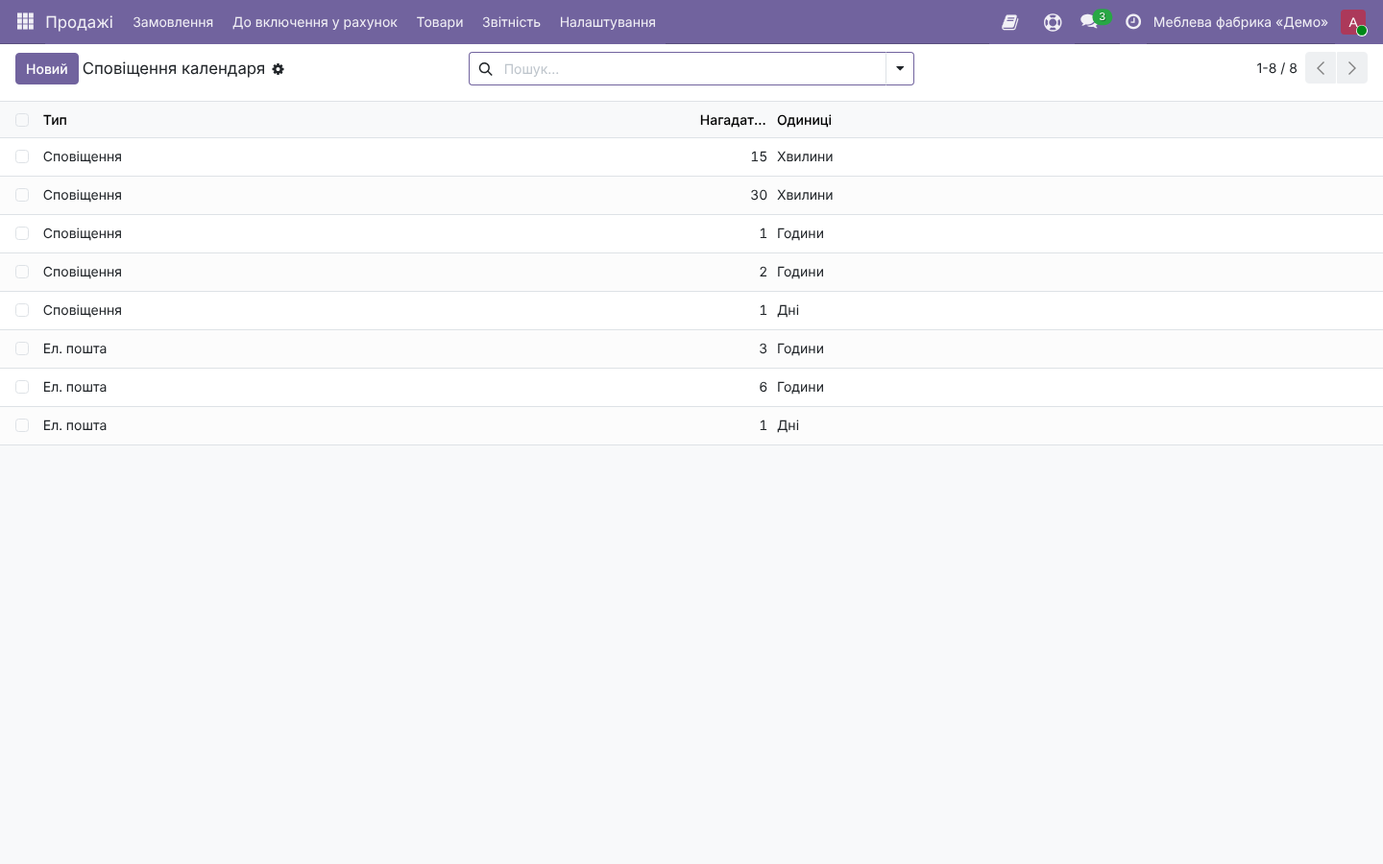
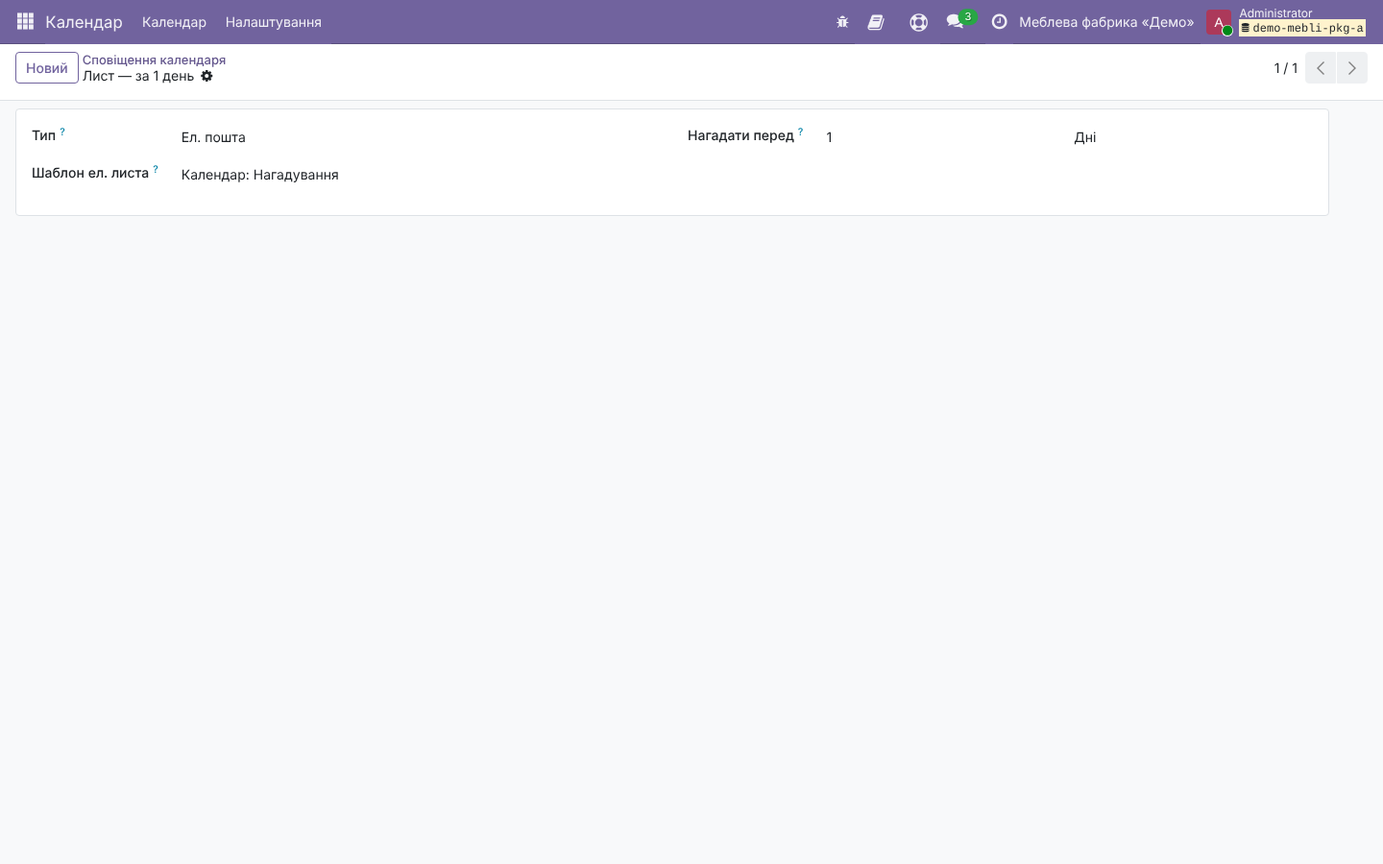
A-16b-4: аудит коло 1 — режим договору, AI-мапінг і підтримка в setup.md, ємність дільниці, крок якості (перезнято SET-31), SET-16, новий SET-37, D-22 (код BAS працівника без підпису)
Claude-Session: https://claude.ai/code/session_01L4X5dzMK8q8wsLqUxAXMtS

diff --git a/package/docs/user-guide/setup.md b/package/docs/user-guide/setup.md
@@ -24,6 +24,8 @@
 8. Адміністратор: терміни оплати з етапами, працівники (PIN, код BAS), причини премій і штрафів, канал BAS.
 9. Технолог: шаблони імпорту деталей (з першого файлу програми проєктування).
 
+Прайс-листи покупців (`product.pricelist`) пакет не розширює — стандарт Odoo, шаблон `15_product.pricelist.csv`; терміни оплати CSV-шаблону не мають (вводять вручну).
+
 Масове заповнення: CSV-шаблони `package/master-data/*.csv` і `package/master-data/td/*.csv` (поля пакета — другим проходом тих самих записів). Імпорт — «Продажі» → «Налаштування» → «Міграція» → «Порядок імпорту шаблонів» → «Імпортувати» в рядку кроку (див. розділ «Міграція: порядок імпорту шаблонів і звірка»). Для кожного довідника нижче названо його шаблон.
 
 ## Налаштування «Меблі» і параметри компанії
@@ -34,7 +36,10 @@
 3. Блок «Монтаж»: «% бригаді» (типовий відсоток від суми замовлення для нового акта), «Поділ % бригаді» («Порівну» / «За часом»), «База % бригаді» («За фінальним актом» / «За етапами»), «Монтаж у вартості замовлення», «Чек-лист акта» — пункти акта монтажу, по одному в рядку.
 4. Блок «Контроль»: «Застряглі замовлення» (1–30 днів), «Ціна вище історії» (1–50 %), «Прострочка рекламації» (1–60 днів), «Мінімальний обрізок» (100–1000 мм), «Розкрій плит», «Профіль коробки» (лише інформаційно), «Собівартість: відрядна замість годин».
 5. Блок «Функції коробки B»: прапорці функцій (конфігуратор, обрізки, пакети розкрою, кіоск цеху, контроль якості, сканування етикеток, підпис зміни замовлення, курс НБУ, AI-підказка колонок, аналоги, табло цеху).
-6. Натисніть «Зберегти».
+6. Під «AI-підказка колонок» (коли увімкнено) — «Постачальник моделі AI-мапінгу»: адреса сервісу; порожньо, доки постачальника не обрано (підказка вимкнена).
+7. Окремо, «Налаштування» → «Продажі», блок «Документи меблевого виробництва»: «Друкований договір» — «Режим договору» = «Договір підряду» або «Купівля-продаж» (текст договору, який менеджер друкує із замовлення).
+8. Окремо, блок «Підтримка ToDo»: «Адреса підтримки», «Надсилати на вебхук», «Адреса вебхука», «Секрет вебхука» — `admin.md` § Звернення в підтримку (td_support).
+9. Натисніть «Зберегти».
 
 ![Налаштування «Меблі»: договір, оплата, монтаж](img/setup/SET-01.png)
 ![Налаштування «Меблі»: контроль і функції коробки B](img/setup/SET-02.png)
@@ -44,12 +49,14 @@
 - «Контроль доплати перед виїздом» = «Блокувати» — бригаду не можна відправити на монтаж з несплаченою доплатою (менеджер і бригадир бачать «Бракує до монтажу» на завданні монтажу).
 - «Ціна вище історії» — поріг червоної позначки «Історія» в рядках закупівлі (комірник, `komirnyk.md` SC-04); «Мінімальний обрізок» — менші залишки плити не стають діловими обрізками.
 - «Монтаж у вартості замовлення» — рядок послуги монтажу в замовленні має нульову ціну (розділ «Послуга монтажу»).
+- «Режим договору» не задано -> менеджер не надрукує договір: «Задайте режим договору в налаштуваннях компанії (Продажі → Налаштування)» (`menedzher.md` SC-01, AC-034).
+- «Адреса підтримки» порожня -> кнопка «Підтримка ToDo» у верхній панелі не має куди надсилати звернення.
 - Значення параметрів і їхні VP-NN — `admin.md` § Параметри і § Довідник налаштувань модулів; службове поле користувача `td_margin_auto` («Бачить маржу» за параметром компанії) ставиться автоматично з «Менеджер бачить маржу».
 
 Типова помилка: значення поза діапазоном -> «%(field)s: значення %(value)s поза допустимим діапазоном %(low)s–%(high)s.» — виправте число в межах з підказки під полем.
 
 ## Категорії товарів
-Хто: адміністратор. Де: «Продажі» → «Налаштування» → «Товари» → «Категорії» (також «Склад»/«Купівля» → «Налаштування» → «Товари» → «Категорії»). Модель — `product.category`.
+Хто: адміністратор. Де: «Продажі» → «Налаштування» → «Товари» → «Категорії» (також «Склад»/«Купівля» → «Налаштування» → «Товари» → «Категорії» або «Виставлення рахунків» → «Налаштування» → «Категорії товару» — так знято кадр). Модель — `product.category`.
 
 1. «Новий» або відкрийте категорію.
 2. Заповніть «Категорія» (назва) і «Батьківська категорія».
@@ -102,7 +109,7 @@
 ![Атрибут «Ширина, мм»: розмір виробу](img/setup/SET-29.png)
 
 Обов'язкові поля й наслідки: з «Роль компонента» і «Товар-компонент» специфікація під замовлення знає, з якої плити кроїти корпус і фасад і яку фурнітуру класти; з «Товщина кромки, мм» — яку кромку підібрати до плити. Без «Декор корпусу» менеджер отримає «Оберіть декор корпусу для %s.» (`menedzher.md` SC-01); без кромки потрібної товщини — «Не знайдено кромки %(thickness)s мм для %(board)s.» (технолог, `tekhnolog.md` SC-02). «Розмір виробу» — звідки беруться ширина/висота/глибина рядка замовлення (ціна й деталі).
-Типова помилка: «Створення варіанту» = «Миттєво» — на кожну комбінацію створюються варіанти товару; для конфігуратора ставте «Ніколи».
+Типова помилка: «Створення варіанту» = «Миттєво» — на кожну комбінацію створюються варіанти товару; для конфігуратора ставте «Ніколи». Щойно атрибут ужито в товарах, Odoo блокує «Створення варіанту» (на кадрі поле неактивне) — щоб змінити, заведіть новий атрибут.
 Масово: `03_product.attribute.csv`, `04_product.attribute.value.csv`; поля пакета — `td/03b_product.attribute.csv`, `td/04b_product.attribute.value.csv`.
 
 ## Доплати й несумісні значення (конфігуратор)
@@ -129,7 +136,7 @@
 3. Плита: «Довжина листа, мм», «Ширина листа, мм», «Товщина, мм», «Плановий відхід, %» (0–99, за замовчуванням 15).
 4. Кромка: «Товщина, мм», «Підходить до плити» (декор плити, до якого ця кромка), «Товщина кромки, мм» (0,4 / 2 тощо).
 5. Фурнітура й готовий фасад: досить «Вид матеріалу».
-6. Код для BAS — у формі варіанта товару («Виробництво» → «Товари» → «Варіанти товару», поле «Код BAS» після «Референс»; для обміну з BAS).
+6. Код для BAS вводить адміністратор у формі варіанта товару («Виробництво» → «Товари» → «Варіанти товару»; меню є, коли в налаштуваннях Складу/Продажів увімкнено варіанти — на стенді увімкнено), поле «Код BAS» після «Референс»; потрібне для обміну з BAS.
 7. «Зберегти».
 
 ![Плита: розміри листа, товщина, відхід](img/setup/SET-20.png)
@@ -201,11 +208,12 @@
 
 1. «Новий»: «Назва робочого центру», «Код» (напр. `CUT`, `EDG`, `DRL`, `ASM`), «Робочі години» (робочий графік дільниці).
 2. Вкладка «Загальна інформація»: «Ефективність часу», «Вартість на годину».
-3. «Зберегти».
+3. Вкладка «Завантаженість виробництва»: рядок без товару з ємністю — скільки виробів дільниця робить одночасно; рядка немає — множник 1.
+4. «Зберегти».
 
 ![Робочий центр: доступні години і відкриті заявки](img/setup/SET-32.png)
 
-Поля пакета (лише для читання): «Доступно годин на тиждень» = години графіка × кількість одночасних виробів; «Відкриті заявки» (смарт-кнопка «Обслуговування») — відкриті запити на обслуговування дільниці; «Верстати» — обладнання дільниці. Наслідки: від «Доступно годин на тиждень» — «Завантаження, %» і зона перевантаження в «Завантаження дільниць» начальника виробництва (`nachalnyk-vyrobnytstva.md` SC-03).
+Поля пакета (лише для читання): «Доступно годин на тиждень» = години графіка × кількість одночасних виробів; «Відкриті заявки» (смарт-кнопка «Обслуговування») — відкриті запити на обслуговування дільниці; службове «Верстати» (кількість обладнання дільниці) на формі не показується. Наслідки: від «Доступно годин на тиждень» — «Завантаження, %» і зона перевантаження в «Завантаження дільниць» начальника виробництва (`nachalnyk-vyrobnytstva.md` SC-03).
 Типова помилка: робочий графік не задано — доступних годин 0, завантаження не рахується.
 Масово: `09_mrp.workcenter.csv`.
 
@@ -216,14 +224,14 @@
 2. Вкладка «Операції» → «Додати рядок» (форма «Використання робочого центру»): «Операція», «Робочий центр».
 3. «База часу»: «Фіксовано» / «На деталь» / «На метр кромки» / «На м² плити»; «Хвилин на одиницю бази» — хвилин на одну деталь, метр кромки, м² плити (для «Фіксовано» — стандартна «Тривалість за замовчуванням»).
 4. «Розцінка за одиницю бази» — грн відрядної оплати за одиницю бази (для «Фіксовано» — за операцію).
-5. «Крок якості» (функція «Контроль якості») — що перевіряє працівник після операції.
+5. «Крок якості» — що працівник перевіряє й фотографує перед «Готово» (напр. «Кромка без сколів, фото торця»); поле видно лише з увімкненою функцією «Контроль якості» («Налаштування» → «Меблі»).
 6. «Зберегти». Для непараметричних виробів деталі імпортують з файлу програми проєктування («Імпорт деталей» на специфікації, `tekhnolog.md` SC-02).
 
 ![Специфікація-шаблон і операції з базою часу та розцінкою](img/setup/SET-35.png)
 ![Операції шаблону: база часу, хвилини, розцінка](img/setup/SET-30.png)
 ![Використання робочого центру: база часу, розцінка, крок якості](img/setup/SET-31.png)
 
-Обов'язкові поля й наслідки: «База часу» обов'язкова (за замовчуванням «Фіксовано»). У специфікації під замовлення тривалість операції = «Хвилин на одиницю бази» × кількість бази (деталей, метрів кромки, м² плити) — це планові години й завантаження дільниць начальника виробництва. «Розцінка за одиницю бази» × база × виготовлено = відрядне нарахування працівнику (фінансист, «Премії й штрафи»). «Крок якості» показується на планшеті цеху після операції (`nachalnyk-vyrobnytstva.md` SC-03). Службові поля специфікації («Специфікація під замовлення», «Шаблонна специфікація», «Рядок замовлення», «Замовлення на продаж», «Версія розкрою», «Ширина/Висота/Глибина, мм», «Деталі», «Кількість деталей», «Площа плит, м²», «Кромка, м», у рядках — «З деталей») заповнює система для специфікацій під замовлення; вручну їх не правлять.
+Обов'язкові поля й наслідки: «База часу» обов'язкова (за замовчуванням «Фіксовано»). У специфікації під замовлення тривалість операції = «Хвилин на одиницю бази» × кількість бази (деталей, метрів кромки, м² плити) — це планові години й завантаження дільниць начальника виробництва. «Розцінка за одиницю бази» × база × виготовлено = відрядне нарахування працівнику (фінансист, «Премії й штрафи»). «Крок якості» показується на планшеті цеху перед завершенням операції (`nachalnyk-vyrobnytstva.md` SC-03). Службові поля специфікації («Специфікація під замовлення», «Шаблонна специфікація», «Рядок замовлення», «Замовлення на продаж», «Версія розкрою», «Ширина/Висота/Глибина, мм», «Деталі», «Кількість деталей», «Площа плит, м²», «Кромка, м», у рядках — «З деталей») заповнює система для специфікацій під замовлення; вручну їх не правлять.
 Типова помилка: «Розцінка за одиницю бази» = 0 — відрядна за операцію не нараховується.
 Масово: `10_mrp.bom.csv`, `11_mrp.bom.line.csv`, `12_mrp.routing.workcenter.csv`, поля пакета — `td/12b_mrp.routing.workcenter.csv`.
 
@@ -262,13 +270,14 @@
 ![Термін оплати з етапами](img/setup/SET-09.png)
 
 Наслідки: рядки «Передоплата» і «Перед монтажем» мають бути сплачені до виїзду бригади; «Після акта» — після підписаного акта. Менеджер бачить «Графік оплат» і «Оплата етапами» в замовленні, бригадир і менеджер — «Бракує до монтажу» на виїзді; друкований договір показує графік. Умова без етапів — уся сума до монтажу.
+Масово: CSV-шаблону немає — терміни з етапами вводять вручну (умова «Меблі на замовлення» постачається з `td_mebli_sale`).
 Типова помилка: етап не задано в жодному рядку — контроль доплати вважає всю суму обов'язковою до монтажу.
 
 ## Працівники: код BAS і PIN цеху
 Хто: адміністратор (кадровик). Де: «Співробітники» → «Співробітники». Модель — `hr.employee`.
 
 1. Відкрийте або створіть працівника: ім'я, «Відділ», «Посада».
-2. Вкладка «Налаштування», блок «Відвідування/точка продажу»: «PIN-код» (для планшета цеху) і «Номер `RFID`/бейджа»; поруч — «Код BAS» (табельний код працівника в BAS; видно кадровику).
+2. Вкладка «Налаштування», блок «Відвідування/точка продажу»: «PIN-код» (для планшета цеху) і «Номер `RFID`/бейджа»; «Код BAS» (табельний код працівника в BAS; видно кадровику) — друге поле в рядку «Номер `RFID`/бейджа», без власного підпису (на кадрі «0001  П-0003»: 0001 — бейдж, П-0003 — код BAS; дефект підпису D-22 у `package/demo/defects.md`).
 3. Блок «Налаштування модуля»: «Вартість години».
 4. «Зберегти».
 
@@ -279,7 +288,7 @@
 Масово: `13_hr.employee.csv`, коди BAS — `td/21b_hr.employee.csv`.
 
 ## Причини премій і штрафів
-Хто: адміністратор (начальник виробництва). Де: «Виробництво» → «Налаштування» → «Причини премій і штрафів». Модель — довідник `td.mebli.accrual.reason`.
+Хто: адміністратор; меню відкрите також менеджеру виробництва (начальник виробництва) і бухгалтерії (фінансист). Де: «Виробництво» → «Налаштування» → «Причини премій і штрафів». Модель — довідник `td.mebli.accrual.reason`.
 
 1. «Новий»: «Причина», «Вид» («Премія» / «Штраф»), «Типова сума».
 2. «Зберегти». Непотрібну причину архівуйте (не видаляйте — на неї посилаються нарахування).
@@ -292,7 +301,7 @@
 ## Причини втрат дільниць
 Хто: адміністратор. Модель — стандартна `mrp.workcenter.productivity.loss`.
 
-Пакет використовує стандартні причини втрат Odoo: кіоск цеху пропонує при «Пауза» причини з типом «Доступність», «Якість», «Продуктивність» («Доступність матеріалу», «Несправність обладнання», «Налаштування» тощо); заявка на ремонт верстата фіксує простій стандартною причиною «Несправність обладнання». В Odoo 19 CE окремого пункту меню для цього довідника немає (перевірено на стенді); список стандартний, власні причини в CE через інтерфейс не додаються — відкрите питання (`tests/open-questions.md`). Кадр вибору причини паузи — `nachalnyk-vyrobnytstva.md` SC-03.
+Пакет використовує стандартні причини втрат Odoo: кіоск цеху пропонує при «Пауза» причини з типом «Доступність», «Якість», «Продуктивність» («Доступність матеріалу», «Несправність обладнання», «Налаштування» тощо); заявка на ремонт верстата фіксує простій стандартною причиною «Несправність обладнання». В Odoo 19 CE окремого пункту меню для цього довідника немає (перевірено на стенді: меню адміністратора й технолога; у вихідних `addons/*/views/*.xml` Odoo 19 CE немає дії вікна для `mrp.workcenter.productivity.loss`); список стандартний, власні причини в CE через інтерфейс не додаються — відкрите питання (`tests/open-questions.md`). Кадр вибору причини паузи — `nachalnyk-vyrobnytstva.md` SC-03.
 Типова помилка: «Пауза» без причини -> «Оберіть причину паузи.».
 
 ## Заміри: графік і нагадування
@@ -300,7 +309,7 @@
 
 1. Користувачу замірника дайте групу «Замірник» («Налаштування» → «Користувачі», `admin.md` § Користувачі й ролі).
 2. Робочий графік замірника — «Співробітники» → «Налаштування» → «Робочий графік» (вільні вікна запису = години графіка мінус його зустрічі; без графіка працівника — графік компанії).
-3. Нагадування покупцю за день — стандартне сповіщення календаря «Лист — за 1 день», яке створює модуль `td_mebli_measure`; список — «Налаштування» → «Технічні налаштування» → «Календар» → «Сповіщення календаря» (режим розробника). Не видаляйте його.
+3. Нагадування покупцю за день — стандартне сповіщення календаря «Лист — за 1 день», яке створює модуль `td_mebli_measure`; список — «Налаштування» → «Технічні налаштування» → «Календар» → «Сповіщення календаря» (режим розробника; на кадрі — запис «Лист — за 1 день»: тип «Ел. пошта», нагадати перед 1 «Дні»). Не видаляйте його.
 
 ![Сповіщення календаря](img/setup/SET-16.png)
 
@@ -314,6 +323,7 @@
 2. Вручну (напр. первинний облік): «Склад» → «Товари» → «Партії / Серійні номери» → «Новий»: товар-плита, назва партії, «Діловий обрізок», «Довжина, мм», «Ширина, мм»; кількість — інвентаризацією.
 
 ![Ділові обрізки](img/setup/SET-13.png)
+![Діловий обрізок: довжина, ширина, площа](img/setup/SET-37.png)
 
 Наслідки: технолог підбирає обрізок під деталь («Підібрати обрізок», `tekhnolog.md` SC-02); службові поля «Площа, м²», «Завдання розкрою», «Зарезервовано для», «Зарезервовано, м²» рахує система.
 Типова помилка: розміри не заповнено — обрізок не пропонується жодній деталі.

diff --git a/package/docs/user-guide/INDEX.md b/package/docs/user-guide/INDEX.md
@@ -2,7 +2,7 @@
 SHA стенда: dd1c9490f637c8c33fdbf983d22ab749d2763af9
 Джерело сценаріїв: package/SPEC.md
 Дозволені латинські назви: BAS, BAF, PIN, CAD, DXF, ToDo, QR, CUT, TDS, ПДВ, Odoo, Excel, CSV
-Дата зйомки: 2026-11-16 (A-16b-4: 33 кадри `img/setup/SET-*.png` для `setup.md` на стенді A-15-full-3 `dd1c949` під адміністратором (`admin`) і технологом (`tech@demo-fabryka.example`), 1440×900; A-16b-3: перезнято кадри головного екрана `menedzher/SC-01-1.png`, `kerivnyk/SC-06-1.png` на стенді A-15-full-3 `dd1c949`, сервер з каталогом доставки `delivery-fix4`; решта 67 кадрів — A-16b-2 на стенді `15dbd6f`: diff коду `15dbd6f..dd1c949` змінює в інтерфейсі лише головний екран і іконки кореневих меню, яких на цих кадрах немає — навбар застосунків, форми й списки ті самі, AI-32). Адреса стенда: локальний (`http://127.0.0.1:8079`, база `demo-mebli-pkg-a`, Odoo 19.0 CE, мова `uk_UA`, профіль B-демо). Засіб зйомки: Playwright, headless Chromium, 1440×900, часовий пояс `Europe/Kyiv`; журнал — `img/SHOOT-LOG.md`.
+Дата зйомки: 2026-11-16 (A-16b-4: 34 кадри `img/setup/SET-*.png` для `setup.md` на стенді A-15-full-3 `dd1c949` під адміністратором (`admin`) і технологом (`tech@demo-fabryka.example`), 1440×900; A-16b-3: перезнято кадри головного екрана `menedzher/SC-01-1.png`, `kerivnyk/SC-06-1.png` на стенді A-15-full-3 `dd1c949`, сервер з каталогом доставки `delivery-fix4`; решта 67 кадрів — A-16b-2 на стенді `15dbd6f`: diff коду `15dbd6f..dd1c949` змінює в інтерфейсі лише головний екран і іконки кореневих меню, яких на цих кадрах немає — навбар застосунків, форми й списки ті самі, AI-32). Адреса стенда: локальний (`http://127.0.0.1:8079`, база `demo-mebli-pkg-a`, Odoo 19.0 CE, мова `uk_UA`, профіль B-демо). Засіб зйомки: Playwright, headless Chromium, 1440×900, часовий пояс `Europe/Kyiv`; журнал — `img/SHOOT-LOG.md`.
 Свіжість: SHA гейтів `package/CHECKS.md` = `1778db7` (A-14-7); `git diff --quiet 1778db7..HEAD -- package/addons package/config package/master-data …` = 0 (код пакета = коду гейтів).
 Модулі на стенді (21 `td_*`, без `td_mebli_demo`): `td_home_menu` 19.0.1.0.1, `td_knowledge` 19.0.1.1.2, `td_mebli_attendance` 19.0.1.1.1, `td_mebli_bas` 19.0.1.1.3, `td_mebli_base` 19.0.1.1.3, `td_mebli_claim` 19.0.1.1.4, `td_mebli_cost` 19.0.1.1.2, `td_mebli_cutting` 19.0.1.1.3, `td_mebli_dashboard` 19.0.1.1.3, `td_mebli_install` 19.0.1.1.6, `td_mebli_knowledge` 19.0.1.1.1, `td_mebli_maint` 19.0.1.1.2, `td_mebli_measure` 19.0.1.1.4, `td_mebli_migration` 19.0.1.1.6, `td_mebli_mrp` 19.0.1.1.5, `td_mebli_notify` 19.0.1.1.4, `td_mebli_purchase` 19.0.1.1.3, `td_mebli_sale` 19.0.1.1.3, `td_mebli_shop` 19.0.1.1.3, `td_mebli_ua` 19.0.1.1.3, `td_support` 19.0.1.0.1. Не встановлено: мости EE (`td_mebli_shopfloor`, `_quality`, `_fsm`, `_planning`, `_helpdesk`, `_sign`) — EE не перевірено; `td_mebli_multico` — профіль VP-03 = `single`.
 
@@ -657,7 +657,7 @@ SHA стенда: dd1c9490f637c8c33fdbf983d22ab749d2763af9
 | Вікно підтримки (td_support): адреса, вебхук, звернення | admin.md § Звернення в підтримку (td_support) | описано; адреса підтримки — рішення власника (не задано) |
 | База знань (td_knowledge, td_mebli_knowledge) | admin.md § База знань (td_knowledge) | описано |
 | Налаштування модулів і поля пакета на стандартних формах | admin.md § Довідник налаштувань модулів; § Поля пакета на стандартних формах | описано |
-| Налаштування довідників і товарів: кожен довідник `td_*` і кожне поле `td_*` на стандартних формах — хто, де, кроки, обов'язкові поля й наслідки, типова помилка, кадр | setup.md; таблиця (г) нижче | описано; 33 кадри під адміністратором / технологом (`img/setup/`) |
+| Налаштування довідників і товарів: кожен довідник `td_*` і кожне поле `td_*` на стандартних формах — хто, де, кроки, обов'язкові поля й наслідки, типова помилка, кадр | setup.md; таблиця (г) нижче | описано; 34 кадри під адміністратором / технологом (`img/setup/`) |
 | Типові помилки: довідник усіх повідомлень пакета дослівно (140 текстів із 153 місць коду; перевірка `reference/check_messages.py` — 0 пропущених) + симптоми налаштувань і стандарту Odoo | reference/messages.md; admin.md § Типові помилки; «Типові помилки» посібників ролей | описано |
 
 ## Покриття: налаштування довідників (г)

diff --git a/docs/industries/mebli/research/AI-DECISIONS.md b/docs/industries/mebli/research/AI-DECISIONS.md
@@ -72,4 +72,4 @@
 | AI-33 | A-16b-4: де лежить `setup.md` і як його бачить `check_guides.py` | `package/docs/user-guide/setup.md` (як у вимозі власника) + рядок «Налаштування довідників і товарів (адміністратор, технолог)» у таблиці «## Ролі» INDEX і картка `cards/setup.md` — бо скрипт скіла вважає кожен `.md` у корені посібником ролі (UG-files, UG-roles) | окрема тека `setup/` поза перевіркою скрипта | `elearning-builder` (A-17b) читає таблицю «Ролі» і чекатиме курс «setup»; кроки нумерованих списків setup.md підпадають під UG-lang (латиниця — у зворотних лапках) | check_guides FAIL 0; observations/2026-11-16-a16b4-setup-guide.md | A-16b-4 | ризик, вето власника |
 | AI-34 | A-16b-4: що таке «модель-довідник `td_*`» для таблиці (г) і що робити з полями `td_*` робочих документів | Скрипт `reference/check_setup.py` бере всі 262 поля `td_*` на стандартних моделях і всі 27 постійних моделей `td_*`; «довідник» — обов'язково кожна модель, дія якої в меню «Налаштування» (3), плюс за рішенням AI канал BAS, кроки міграції, статті бази знань (разом 6); решта — «документ». Поля робочих документів (`sale.order`, `mrp.production`, `project.task` тощо; 168 рядків «документ» з 289) ведуть на один розділ setup.md «Поля пакета на робочих документах» з посиланням на посібник ролі, а не на покрокові інструкції налаштування | покрокова інструкція на кожне поле | поле документа, яке насправді треба налаштовувати, заховане в «документ» | рецензент A-16b-4 (кут «налаштування з нуля»), власник A-17 | A-16b-4 | ризик, вето власника |
 | AI-35 | A-16b-4: «причини втрат дільниць» і «тип зустрічі «Замір»» з вимоги власника | Описано як є в коді: причини втрат — стандартний `mrp.workcenter.productivity.loss`, в Odoo 19 CE пункту меню немає (перевірено на стенді) — кадру довідника немає, посилання на кадр кіоску; типу зустрічі «Замір» пакет не створює — описано групу «Замірник», робочий графік і сповіщення «Лист — за 1 день» (`td_mebli_measure`) | вигадати меню/тип або додати їх у код | клієнт хоче власні причини простою — у CE через інтерфейс не додати | tests/open-questions.md (2026-11-16, A-16b-4) | A-16b-4 | ризик, перевірити на пілоті |
-| AI-36 | A-16b-4: під якою роллю знімати атрибути, ціни постачальників, послуги, курси | Атрибути, категорії, послуги порізки й монтажу, ціни постачальників — під адміністратором: у технолога немає меню «Атрибути»/«Категорії» і вкладки «Купівля» (права перевірено меню `load_menus` на стенді); доплати/несумісні значення — під технологом (кнопка «Налаштувати» у виробі). Курси валют («Джерело») — без кадру: поле лише в списку курсів, дія списку без контексту не відкривається | знімати все під технологом через пряму адресу дії | роль у кадрі ≠ роль, якій клієнт доручить довідник | рецензент; SHOOT-LOG (33 рядки `img/setup/`) | A-16b-4 | ризик, вето власника |
+| AI-36 | A-16b-4: під якою роллю знімати атрибути, ціни постачальників, послуги, курси | Атрибути, категорії, послуги порізки й монтажу, ціни постачальників — під адміністратором: у технолога немає меню «Атрибути»/«Категорії» і вкладки «Купівля» (права перевірено меню `load_menus` на стенді); доплати/несумісні значення — під технологом (кнопка «Налаштувати» у виробі). Курси валют («Джерело») — без кадру: поле лише в списку курсів, дія списку без контексту не відкривається | знімати все під технологом через пряму адресу дії | роль у кадрі ≠ роль, якій клієнт доручить довідник | рецензент; SHOOT-LOG (34 рядки `img/setup/`) | A-16b-4 | ризик, вето власника |

diff --git a/package/docs/user-guide/img/SHOOT-LOG.md b/package/docs/user-guide/img/SHOOT-LOG.md
@@ -104,3 +104,4 @@
 | package/docs/user-guide/img/setup/SET-34.png | dd1c9490f637c8c33fdbf983d22ab749d2763af9 | 2026-11-16 | tech@demo-fabryka.example | http://127.0.0.1:8079 |
 | package/docs/user-guide/img/setup/SET-35.png | dd1c9490f637c8c33fdbf983d22ab749d2763af9 | 2026-11-16 | tech@demo-fabryka.example | http://127.0.0.1:8079 |
 | package/docs/user-guide/img/setup/SET-36.png | dd1c9490f637c8c33fdbf983d22ab749d2763af9 | 2026-11-16 | tech@demo-fabryka.example | http://127.0.0.1:8079 |
+| package/docs/user-guide/img/setup/SET-37.png | dd1c9490f637c8c33fdbf983d22ab749d2763af9 | 2026-11-16 | admin | http://127.0.0.1:8079 |
